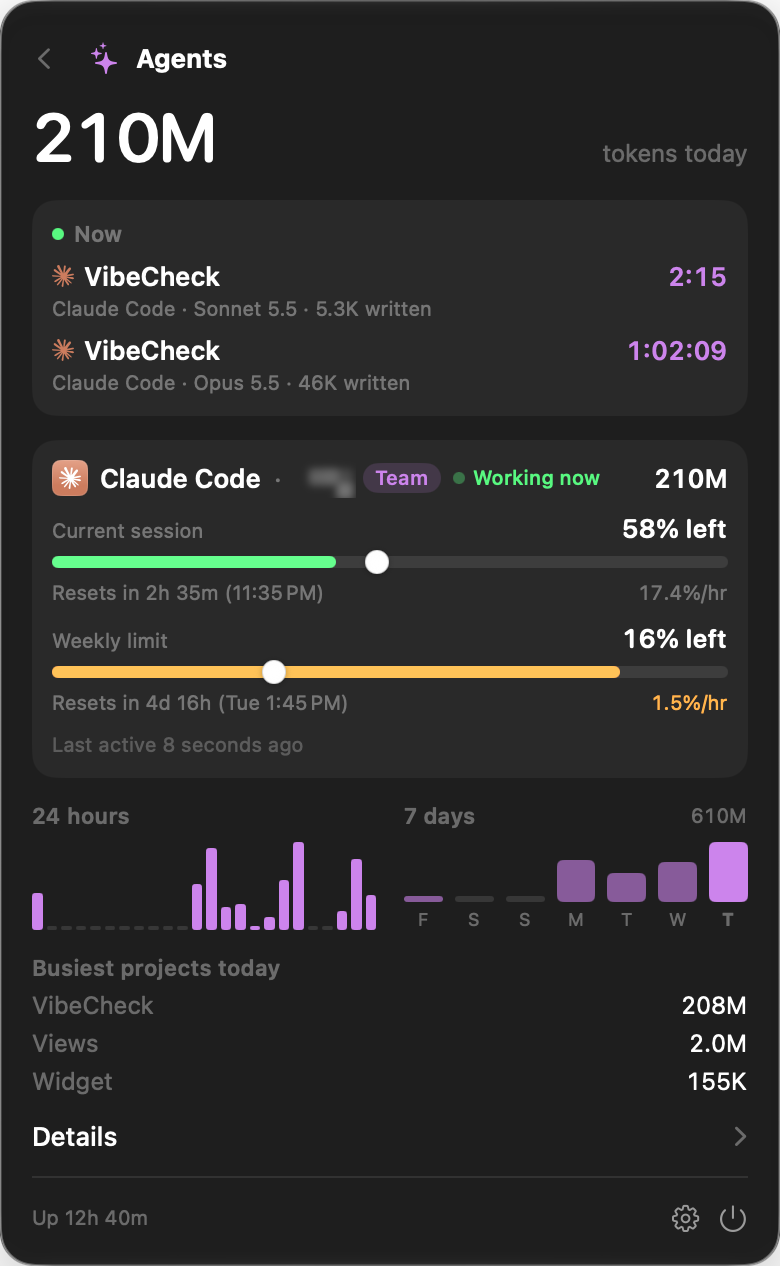
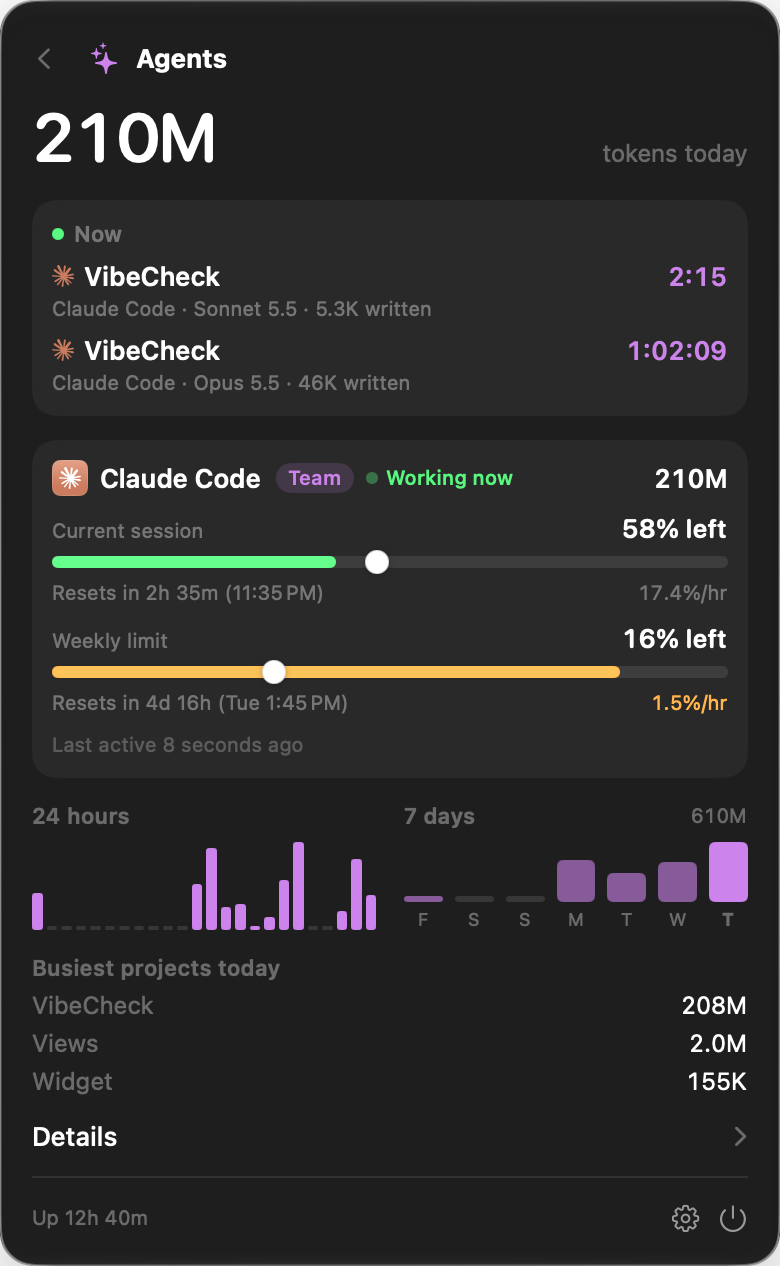
docs: polish README and screenshots for public release
- Remove redacted/blurred areas from the palette, memory, network and
  agents screenshots
- Add docs/screenshots/modules.png, one composite of the six module
  views, replacing the uneven 3x2 table
- Add release, license, macOS and tests badges, and an FAQ section
- Add CI (swift build + swift test), a PR template and a code of conduct
- Add scripts/polish_screenshots.py to reproduce the image edits

Changed region(s): [[0.3385, 0.3389, 0.7692, 0.4005]]

diff --git a/scripts/polish_screenshots.py b/scripts/polish_screenshots.py
@@ -1,0 +1,129 @@
+#!/usr/bin/env python3
+"""Cleans up the README screenshots and builds the module overview image.
+
+Run from the repository root:  python3 scripts/polish_screenshots.py
+Needs Pillow (pip install pillow). It edits files in docs/screenshots/ in place, so run it once on fresh
+captures, not twice on the same files.
+
+What it does:
+- palette.png: replaces the verdict line (which had a redacted app name) with the one from deck.png.
+- memory.png: drops the redacted row from "Who's responsible".
+- network.png: drops the "Listening ports" list (all redacted), keeping the chart and Details.
+- agents.png: removes the redacted account name next to "Claude Code".
+- modules.png: new. The six module detail views on the hero's dark grid background.
+"""
+from pathlib import Path
+
+from PIL import Image, ImageDraw, ImageFilter
+
+SHOTS = Path("docs/screenshots")
+
+
+def load(name):
+    return Image.open(SHOTS / name).convert("RGBA")
+
+
+def stack(parts):
+    """Stacks image slices vertically."""
+    out = Image.new("RGBA", (parts[0].width, sum(p.height for p in parts)))
+    y = 0
+    for p in parts:
+        out.paste(p, (0, y))
+        y += p.height
+    return out
+
+
+def fix_palette():
+    palette, deck = load("palette.png"), load("deck.png")
+    box = (105, 95, 770, 165)  # the two verdict lines, right of the ring
+    palette.paste(deck.crop(box), box[:2])
+    palette.save(SHOTS / "palette.png", optimize=True)
+
+
+def fix_memory():
+    im = load("memory.png")
+    # Rows are 40 px apart; the third row (y 645..685) was redacted.
+    stack([im.crop((0, 0, im.width, 645)), im.crop((0, 685, im.width, im.height))]).save(
+        SHOTS / "memory.png", optimize=True)
+
+
+def fix_network():
+    im = load("network.png")
+    # Keep everything down to "No app traffic right now.", then Details and the footer.
+    stack([im.crop((0, 0, im.width, 615)), im.crop((0, 1020, im.width, im.height))]).save(
+        SHOTS / "network.png", optimize=True)
+
+
+def fix_agents():
+    im = load("agents.png")
+    top, bottom = 452, 506
+    # "· <account>" sat between x 276 and 362. Slide the plan pill and "Working now" left into that gap.
+    moved = im.crop((363, top, 600, bottom))
+    im.paste((41, 41, 41, 255), (276, top, 600, bottom))
+    im.paste(moved, (276, top))
+    im.save(SHOTS / "agents.png", optimize=True)
+
+
+def with_shadow(canvas, shot, pos, blur=60, offset=28, alpha=150):
+    """Pastes a screenshot with a soft drop shadow taken from its own rounded-corner alpha."""
+    pad = blur * 2
+    mask = shot.getchannel("A")
+    shadow = Image.new("L", (shot.width + pad * 2, shot.height + pad * 2), 0)
+    shadow.paste(mask.point(lambda a: a * alpha // 255), (pad, pad))
+    shadow = shadow.filter(ImageFilter.GaussianBlur(blur))
+    black = Image.new("RGBA", shadow.size, (0, 0, 0, 255))
+    canvas.paste(black, (pos[0] - pad, pos[1] - pad + offset), shadow)
+    canvas.alpha_composite(shot, pos)
+
+
+def background(w, h):
+    """Near-black with a faint 40 px grid and a mint glow, like the hero and the social card."""
+    bg = Image.new("RGBA", (w, h), (8, 8, 8, 255))
+    line = (255, 255, 255, 15)
+    overlay = Image.new("RGBA", (w, h), (0, 0, 0, 0))
+    d = ImageDraw.Draw(overlay)
+    for x in range(0, w, 40):
+        d.line([(x, 0), (x, h)], fill=line)
+    for y in range(0, h, 40):
+        d.line([(0, y), (w, y)], fill=line)
+    bg.alpha_composite(overlay)
+    glow = Image.new("L", (w, h), 0)
+    ImageDraw.Draw(glow).ellipse((w * 0.15, h * 0.05, w * 0.85, h * 0.75), fill=60)
+    glow = glow.filter(ImageFilter.GaussianBlur(w // 6))
+    mint = Image.new("RGBA", (w, h), (61, 224, 181, 255))
+    bg.paste(mint, (0, 0), glow)
+    return bg
+
+
+def build_modules():
+    columns = [["cpu.png", "gpu.png"], ["memory.png", "battery.png"], ["network.png", "sensors.png"]]
+    stagger = [0, 90, 180]  # each column starts a little lower, for a looser feel
+    col_w, gap, pad = 780, 56, 100
+    height = 1900
+    w = pad * 2 + col_w * 3 + gap * 2
+    canvas = background(w, height)
+    for i, names in enumerate(columns):
+        x, y = pad + i * (col_w + gap), pad + stagger[i]
+        for name in names:
+            shot = load(name)
+            if y < height:
+                with_shadow(canvas, shot, (x, y))
+            y += shot.height + gap
+    # Fade the bottom into the background so the cut-off column ends read as intentional.
+    fade_h = 420
+    fade = Image.new("L", (1, fade_h))
+    fade.putdata([int(255 * (i / fade_h) ** 1.6) for i in range(fade_h)])
+    fade = fade.resize((w, fade_h))
+    solid = Image.new("RGBA", (w, fade_h), (8, 8, 8, 255))
+    canvas.paste(solid, (0, height - fade_h), fade)
+    out = canvas.convert("RGB").resize((w * 2000 // w, height * 2000 // w), Image.LANCZOS)
+    out.save(SHOTS / "modules.png", optimize=True)
+
+
+if __name__ == "__main__":
+    fix_palette()
+    fix_memory()
+    fix_network()
+    fix_agents()
+    build_modules()
+    print("updated palette, memory, network, agents; wrote modules.png")

diff --git a/README.md b/README.md
@@ -17,6 +17,13 @@
 </p>
 
 <p align="center">
+  <a href="https://github.com/saroj-shahi/vibecheck/releases/latest"><img src="https://img.shields.io/github/v/release/saroj-shahi/vibecheck?style=flat-square&color=3DE0B5&labelColor=141833" alt="Latest release"></a>
+  <a href="LICENSE"><img src="https://img.shields.io/github/license/saroj-shahi/vibecheck?style=flat-square&color=36B6F2&labelColor=141833" alt="License: GPL-3.0"></a>
+  <img src="https://img.shields.io/badge/macOS-14%2B-8B6CFF?style=flat-square&logo=apple&logoColor=F5F7FF&labelColor=141833" alt="macOS 14 or later">
+  <a href="https://github.com/saroj-shahi/vibecheck/actions/workflows/ci.yml"><img src="https://img.shields.io/github/actions/workflow/status/saroj-shahi/vibecheck/ci.yml?branch=main&style=flat-square&label=tests&labelColor=141833" alt="Tests"></a>
+</p>
+
+<p align="center">
   <a href="https://buymeacoffee.com/sarojshahi">
     <img src="https://img.shields.io/badge/Buy_me_a_coffee-support_VibeCheck-FFDD00?style=flat-square&logo=buymeacoffee&logoColor=141833&labelColor=F5F7FF" alt="Buy me a coffee to support VibeCheck" height="24">
   </a>
@@ -69,6 +76,7 @@ with a button to quit the app that's causing it.
     [Call guard and Focus](#call-guard-and-focus) · [AI agents](#ai-agents) · [Desktop widgets](#desktop-widgets) ·
     [Shortcuts, Spotlight and Siri](#shortcuts-spotlight-and-siri) · [Settings](#settings) ·
     [Keyboard shortcuts](#keyboard-shortcuts) · [Updates](#updates)
+- [FAQ](#faq)
 - [Privacy](#privacy)
 - [Develop](#develop) · [Brand](#brand) · [Support](#support) · [License](#license) · [Roadmap](#roadmap)
 
@@ -165,18 +173,7 @@ commands you ran come first.
 Turn each one on or off in Settings (new installs start with CPU, Memory, Network, Sensors, Battery and
 Agents). Every detail view follows the same order: the big number, a chart, then who's responsible.
 
-<table align="center">
-<tr>
-  <td align="center"><img src="docs/screenshots/cpu.png" alt="CPU detail view" width="250"><br><sub>CPU</sub></td>
-  <td align="center"><img src="docs/screenshots/memory.png" alt="Memory detail view" width="250"><br><sub>Memory</sub></td>
-  <td align="center"><img src="docs/screenshots/sensors.png" alt="Sensors detail view" width="250"><br><sub>Sensors</sub></td>
-</tr>
-<tr>
-  <td align="center"><img src="docs/screenshots/battery.png" alt="Battery detail view" width="250"><br><sub>Battery</sub></td>
-  <td align="center"><img src="docs/screenshots/network.png" alt="Network detail view" width="250"><br><sub>Network</sub></td>
-  <td align="center"><img src="docs/screenshots/gpu.png" alt="GPU detail view" width="250"><br><sub>GPU</sub></td>
-</tr>
-</table>
+<p align="center"><img src="docs/screenshots/modules.png" alt="Six module detail views: CPU with per-core bars and top apps, Memory with its pressure bar and top apps, Network with upload and download charts, GPU, Battery with time left and a one-day charge chart, and Sensors with SoC, SSD and battery temperatures" width="100%"></p>
 
 | Module | Menu bar | Detail view |
 |---|---|---|
@@ -297,6 +294,30 @@ VibeCheck checks this repository's latest release at most once a day and sends o
 version, with the command to update (`brew upgrade --cask vibecheck` or the install line). Check now from
 Settings → About or ⌘K → "Check for Updates", or turn the check off there.
 
+## FAQ
+
+**macOS says VibeCheck "can't be opened".** VibeCheck isn't notarized by Apple. The Terminal install avoids
+this message. If you downloaded the zip in a browser, run
+`xattr -dr com.apple.quarantine /Applications/VibeCheck.app`, or go to System Settings → Privacy & Security
+and click **Open Anyway**.
+
+**I can't see the ring in my menu bar.** macOS hides menu bar items when there's no room, which happens often
+on Macs with a camera notch. Quit an app or two that adds menu bar items, or open the app again to get to
+Settings → Menu Bar. There, choose **Just the vibe ring** or **One combined item**, or turn on **Fit around the
+camera notch**.
+
+**Some temperatures, fans or battery rows are missing.** Each Mac reports different sensors. VibeCheck hides a
+row when your Mac doesn't report that value.
+
+**How much does VibeCheck use itself?** About 3–4% CPU and 100 MB of memory when idle. Most of that is macOS
+drawing menu bar items, so showing fewer items (or just the ring) makes it lighter.
+
+**Does keep awake work with the lid closed?** No. It stops idle sleep, like `caffeinate`. Closing the lid still
+puts your Mac to sleep.
+
+**Does it send my AI agent logs anywhere?** No. Token counts are read from local log files and stay on your
+Mac. See [Privacy](#privacy).
+
 ## Privacy
 
 Everything is read on your Mac. VibeCheck has no account, no analytics and no server. The only network
@@ -327,7 +348,7 @@ See [CONTRIBUTING.md](CONTRIBUTING.md) to send a change.
 | `Sources/VibeCheck/App/` | `SystemStats`, settings, the deck controller, vibe score, alerts, history, weather, hotkeys |
 | `Sources/VibeCheck/Views/` | Menu bar labels, deck, detail panels, charts, settings window |
 | `branding/` | Brand guide, SVG sources, rendered PNGs and the DMG art |
-| `scripts/` | `release.sh` (zip / DMG), `install.sh` (Terminal install and update), `render_brand.swift` (icon and brand assets), `render_dmg.swift` (install window art), `render_hero.swift` (the README hero), `render_ring_symbol.swift` (the ring's custom SF Symbols) |
+| `scripts/` | `release.sh` (zip / DMG), `install.sh` (Terminal install and update), `render_brand.swift` (icon and brand assets), `render_dmg.swift` (install window art), `render_hero.swift` (the README hero), `polish_screenshots.py` (cleans up screenshots and builds the modules image), `render_ring_symbol.swift` (the ring's custom SF Symbols) |
 
 See [`docs/CODEMAP.md`](docs/CODEMAP.md) for which file does what.
 

diff --git a/CODE_OF_CONDUCT.md b/CODE_OF_CONDUCT.md
@@ -1,0 +1,9 @@
+# Code of Conduct
+
+VibeCheck follows the [Contributor Covenant, version 2.1](https://www.contributor-covenant.org/version/2/1/code_of_conduct/).
+
+In short: be kind and respectful, assume good intent, and keep discussion about the work. Harassment, insults
+and personal attacks aren't welcome in issues, pull requests or anywhere else in this project.
+
+To report a problem privately, contact the maintainer through their [GitHub profile](https://github.com/saroj-shahi).
+Reports are kept confidential.

diff --git a/.github/pull_request_template.md b/.github/pull_request_template.md
@@ -1,0 +1,15 @@
+## What this changes
+
+<!-- One change per PR. What does it do, and why? -->
+
+## How I tested it
+
+<!-- e.g. swift test, ./build.sh and tried it in the menu bar, screenshots for UI changes -->
+
+## Checklist
+
+- [ ] `swift test` passes
+- [ ] Tests added or updated for any logic I touched
+- [ ] Text people see follows the voice in `branding/BRAND.md`
+- [ ] Every commit is signed off (`git commit -s`, see CONTRIBUTING.md)
+- [ ] Screenshots attached for UI changes

diff --git a/CONTRIBUTING.md b/CONTRIBUTING.md
@@ -1,6 +1,7 @@
 # Contributing
 
-Thanks for helping! Bug reports, ideas and pull requests are welcome.
+Thanks for helping! Bug reports, ideas and pull requests are welcome. Please follow the
+[Code of Conduct](CODE_OF_CONDUCT.md).
 
 ## Build and test
 Requires macOS 14+ and Xcode (for the Swift 6 toolchain, `actool` and the App Intents tools).
